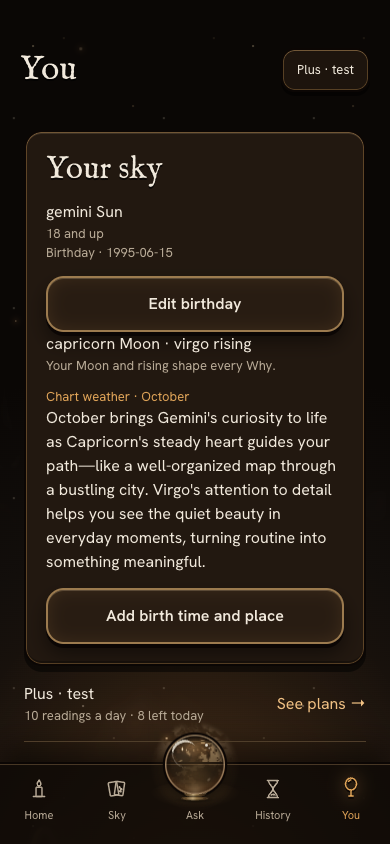
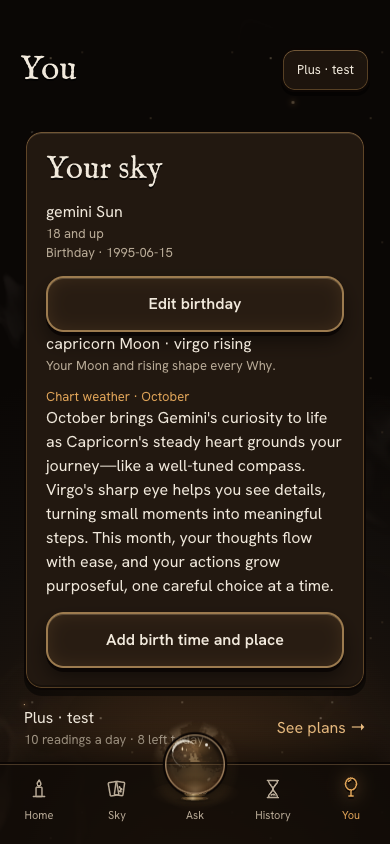
fix: keep forgotten birth signs and other accounts' chart weather off this device
Forgetting a birthday or birth time and place now drops the sign line from
saved readings, and a backup restore drops the chart weather cache. Chart
weather must name every supplied sign, a failed save releases the month,
narration pauses behind Share and Plans, and the cache uses the requested
month.

Changed region(s): [[0.0615, 0.4929, 0.9231, 0.9242]]

diff --git a/tests/plus-chart-voice.test.ts b/tests/plus-chart-voice.test.ts
@@ -1,7 +1,7 @@
 import test from 'node:test';
 import assert from 'node:assert/strict';
 import {handler} from '../server/handler.ts';
-import {astrologyLine,restoreProfile,updateBirthday} from '../src/profile.ts';
+import {astrologyLine,forgetBirthChart,restoreProfile,updateBirthday} from '../src/profile.ts';
 import {narration} from '../src/delight.ts';
 import type {AccountState} from '../src/types.ts';
 
@@ -10,7 +10,7 @@ const balance=(plus:boolean)=>({owner:viewer,asOf:'2026-10-04T00:00:00.000001Z',
 const billed=(key:string)=>({SUPABASE_URL:'http://127.0.0.1:55321',SUPABASE_SERVICE_ROLE_KEY:'test-only'} as Record<string,string>)[key];
 
 // Fake Ollama and Supabase boundaries; the weather text is what the model "writes".
-function boundary(t:any,{plus=false,weather=['Gemini Sun, Pisces Moon and Virgo rising invite a slower, kinder pace this month. Let small rituals steady you.']}={}){
+function boundary(t:any,{plus=false,failSave=false,weather=['Gemini Sun, Pisces Moon and Virgo rising invite a slower, kinder pace this month. Let small rituals steady you.']}={}){
  const prompts:any[]=[],stored=new Map<string,string|null>(),rpcs:string[]=[];let weatherCalls=0;
  t.mock.method(globalThis,'fetch',async(input:unknown,init?:RequestInit)=>{
   const url=new URL(String(input)),body=init?.body?JSON.parse(String(init.body)):null;
@@ -33,7 +33,7 @@ function boundary(t:any,{plus=false,weather=['Gemini Sun, Pisces Moon and Virgo 
     if(!stored.has(key)){stored.set(key,null);return Response.json({claimed:true})}
     const text=stored.get(key);return Response.json(text?JSON.parse(text):{claimed:false});
    }
-   if(name==='save_chart_weather'){const saved=stored.get(key)??JSON.stringify({text:body.weather,chart:body.weather_chart});stored.set(key,saved);return Response.json(JSON.parse(saved).text)}
+   if(name==='save_chart_weather'){if(failSave)return Response.json({message:'unavailable'},{status:500});const saved=stored.get(key)??JSON.stringify({text:body.weather,chart:body.weather_chart});stored.set(key,saved);return Response.json(JSON.parse(saved).text)}
    if(name==='release_chart_weather'){if(stored.get(key)===null)stored.delete(key);return new Response(null,{status:204})}
   }
   throw new Error(`Unexpected URL: ${url}`);
@@ -146,12 +146,27 @@ test('chart weather is a Plus extra read once per month on the server',async t=>
 
 test('chart weather fails closed on stray or generic text and gives the month back',async t=>{
  const today=new Date().toISOString().slice(0,10);
- for(const text of ['Leo energy and your Pisces Moon invite a bright and steady month ahead, full of small brave choices and kind moments.','This month invites a slower and kinder pace. Let small rituals steady you as the days grow shorter and calmer.']){
+ for(const text of ['Leo energy and your Pisces Moon invite a bright and steady month ahead, full of small brave choices and kind moments.','This month invites a slower and kinder pace. Let small rituals steady you as the days grow shorter and calmer.','Your Gemini Sun invites a slower and kinder pace this month. Let small rituals steady you as the days grow shorter.']){
   t.mock.restoreAll();const fake=boundary(t,{plus:true,weather:[text]});
   const response=await ask(handler(billed),{action:'chart',viewerChart:chart,localDate:today});
   assert.equal(response.status,400);assert.equal(fake.weatherCalls(),2,'one repair, then fail closed');
   assert.deepEqual(fake.rpcs,['claim_chart_weather','release_chart_weather']);assert.equal(fake.stored.size,0);
  }
+});
+
+test('a failed save gives the month back for an immediate retry',async t=>{
+ const today=new Date().toISOString().slice(0,10);
+ let fake=boundary(t,{plus:true,failSave:true});
+ assert.equal((await ask(handler(billed),{action:'chart',viewerChart:chart,localDate:today})).status,400);
+ assert.deepEqual(fake.rpcs,['claim_chart_weather','save_chart_weather','release_chart_weather']);assert.equal(fake.stored.size,0);
+});
+
+test('forgetting birth details drops the birth-derived line from saved readings',()=>{
+ const reading={id:'r1',question:'Will I learn?',headline:'You will learn.',createdAt:'2026-10-06T00:00:00Z',label:'Speculative',why:'Practice',facts:{birthday},sources:[],assumptions:[],friend:false,astrology:astrologyLine(birthday,chart)};
+ const state={sunSign:'gemini',ageBand:'adult',birthday,ageConfirmed:true,onboardingDone:true,...chart,birthTime:'14:30',birthPlace:'Oslo',facts:{},history:[reading],credits:0,plus:true,usage:{day:'2026-10-06',count:0},reduceMotion:false,largeText:false} as AccountState;
+ assert.equal(updateBirthday(state).history[0].astrology,undefined);
+ const forgotten=forgetBirthChart(state);
+ assert.equal(forgotten.history[0].astrology,undefined);assert.equal(forgotten.moonSign,undefined);assert.equal(forgotten.birthPlace,undefined);assert.equal(forgotten.birthday,birthday);
 });
 
 test('chart weather follows the birth chart it came from',()=>{

diff --git a/src/BirthProfile.tsx b/src/BirthProfile.tsx
@@ -2,7 +2,7 @@ import {useEffect,useRef,useState} from 'react';
 import {TextInput,View} from 'react-native';
 import {Action,Txt,styles,colors} from './ui';
 import {useStore} from './store';
-import {ageGroup,updateBirthday} from './profile';
+import {ageGroup,forgetBirthChart,updateBirthday} from './profile';
 import {birthChart,findBirthPlaces,type BirthPlace} from './birth-chart';
 import {requestChartWeather} from './api';
 import {localDay} from './retention';
@@ -20,7 +20,7 @@ export function BirthProfile({aiConsent,onUpgrade}:{aiConsent:string|null;onUpgr
  // The server keeps one chart weather per account and month; this copy only avoids asking again.
  async function readWeather(){
   if(aiConsent===null||weatherBusy)return;setWeatherBusy(true);setNotice('');
-  try{const text=await requestChartWeather(state,aiConsent);update(s=>s.moonSign&&s.birthday===state.birthday&&s.moonSign===state.moonSign&&s.risingSign===state.risingSign?{...s,chartWeather:{month,text}}:s);}catch(e){setNotice(e instanceof Error?e.message:'Chart weather is unavailable. Please try again later.');}finally{setWeatherBusy(false);}
+  try{const today=localDay(),text=await requestChartWeather(state,aiConsent,today);update(s=>s.moonSign&&s.birthday===state.birthday&&s.moonSign===state.moonSign&&s.risingSign===state.risingSign?{...s,chartWeather:{month:today.slice(0,7),text}}:s);}catch(e){setNotice(e instanceof Error?e.message:'Chart weather is unavailable. Please try again later.');}finally{setWeatherBusy(false);}
  }
  function saveBirthday(){
   if(ageGroup(birthday)==='under13'){update(s=>({...s,onboardingBlocked:true,onboardingDone:false}));return;}
@@ -48,7 +48,7 @@ export function BirthProfile({aiConsent,onUpgrade}:{aiConsent:string|null;onUpgr
    <Action label={busy?'Finding your city…':'Find birth city'} quiet disabled={busy||place.trim().length<2} onPress={search}/>
    {places.map(p=><Action key={`${p.latitude},${p.longitude}`} label={p.name} quiet={selected!==p} onPress={()=>setSelected(p)}/>)}
    <Action label="Reveal Moon and rising" disabled={!selected||!time} onPress={()=>{try{if(!selected||!state.birthday)return;const chart=birthChart(state.birthday,time,selected.latitude,selected.longitude);update(s=>({...s,...chart,birthTime:time,birthPlace:selected.name,chartWeather:undefined}));setNotice('Calculated on this device.');}catch{setNotice('Check your time and place, then try again.');}}}/>
-   {state.birthPlace?<Action label="Forget birth time and place" quiet onPress={()=>{update(s=>({...s,birthTime:undefined,birthPlace:undefined,moonSign:undefined,risingSign:undefined,chartWeather:undefined}));setTime('');setPlace('');setSelected(undefined);setPlaces([])}}/>:null}
+   {state.birthPlace?<Action label="Forget birth time and place" quiet onPress={()=>{update(forgetBirthChart);setTime('');setPlace('');setSelected(undefined);setPlaces([])}}/>:null}
    <Txt style={styles.caption}>City search: Open-Meteo / GeoNames. Only the city name is sent.</Txt>
   </>:null}
   {notice?<Txt accessibilityRole="alert">{notice}</Txt>:null}

diff --git a/src/api.ts b/src/api.ts
@@ -22,8 +22,8 @@ export async function requestOmen(facts:Facts,{sunSign,birthday,ageConfirmed}:Pi
  return result.value.text;
 }
 
-export async function requestChartWeather({birthday,ageConfirmed,moonSign,risingSign}:Pick<AccountState,'birthday'|'ageConfirmed'|'moonSign'|'risingSign'>,aiConsent=''):Promise<string>{
- const response=await fetch(engineUrl,{method:'POST',headers:{'Content-Type':'application/json',...previewHeaders,...await sessionHeader()},body:JSON.stringify({action:'chart',question:'This month’s chart weather',facts:{},viewerBirthday:birthday,ageConfirmed,viewerChart:{moonSign,risingSign},localDate:localDay(),aiConsent}),signal:AbortSignal.timeout(60000)});
+export async function requestChartWeather({birthday,ageConfirmed,moonSign,risingSign}:Pick<AccountState,'birthday'|'ageConfirmed'|'moonSign'|'risingSign'>,aiConsent='',localDate=localDay()):Promise<string>{
+ const response=await fetch(engineUrl,{method:'POST',headers:{'Content-Type':'application/json',...previewHeaders,...await sessionHeader()},body:JSON.stringify({action:'chart',question:'This month’s chart weather',facts:{},viewerBirthday:birthday,ageConfirmed,viewerChart:{moonSign,risingSign},localDate,aiConsent}),signal:AbortSignal.timeout(60000)});
  const result=await response.json().catch(()=>null);
  if(!response.ok||result?.kind!=='ok'||typeof result.value?.text!=='string')throw new Error(result?.message||'Chart weather is unavailable. Please try again later.');
  return result.value.text;

diff --git a/src/profile.ts b/src/profile.ts
@@ -27,11 +27,17 @@ export function birthdayProfile(birthday?:string,ageConfirmed=false){
  return {birthday,ageConfirmed:group==='unknown'?ageConfirmed:true,sunSign:sunSign(birthday)||null,ageBand:group==='unknown'?(ageConfirmed?'teen' as const:null):group,birthTime:undefined,birthPlace:undefined,moonSign:undefined,risingSign:undefined,chartWeather:undefined};
 }
 
+// The Why's astrology line names birth signs, so it leaves saved readings with the birth details it came from.
+const withoutAstrology=(history:AccountState['history'])=>history.map(({astrology:_,...reading})=>reading);
+export function forgetBirthChart(state:AccountState):AccountState {
+ return {...state,birthTime:undefined,birthPlace:undefined,moonSign:undefined,risingSign:undefined,chartWeather:undefined,history:withoutAstrology(state.history)};
+}
+
 export function updateBirthday(state:AccountState,birthday?:string):AccountState {
  if(birthday&&birthday===state.birthday)return state;
  const confirmed=canRead(state),profile=birthdayProfile(birthday,confirmed);
  const facts={...state.facts};delete facts.birthday;delete facts.sun_sign;
- const history=state.history.map(reading=>{const facts={...reading.facts};delete facts.birthday;return {...reading,facts};});
+ const history=withoutAstrology(state.history).map(reading=>{const facts={...reading.facts};delete facts.birthday;return {...reading,facts};});
  return {...state,...profile,...(!birthday&&confirmed?{ageBand:state.ageBand}:{}),facts,history};
 }
 

diff --git a/server/billing.ts b/server/billing.ts
@@ -98,10 +98,10 @@ export function billing(env:Env){
   const claim=await call('claim_chart_weather',{});
   if(typeof claim?.text==='string'){if(claim.chart===chart)return claim.text;throw new BillingError('You’ve read this month’s chart weather. A new one arrives next month.',409)}
   if(claim?.claimed!==true)throw new BillingError('Your chart weather is still arriving. Try again in a moment.',409);
-  let text:string;
-  try{text=await generate()}catch(error){await call('release_chart_weather',{}).catch(()=>{});throw error}
-  const saved=await call('save_chart_weather',{weather:text,weather_chart:chart});
-  return typeof saved==='string'?saved:text;
+  try{
+   const text=await generate(),saved=await call('save_chart_weather',{weather:text,weather_chart:chart});
+   return typeof saved==='string'?saved:text;
+  }catch(error){await call('release_chart_weather',{}).catch(()=>{});throw error}
  }
  return {user,reconcile,simulate,styles,authorizeCharge,edition,chartWeather,balance:(viewer:string)=>rpc('reading_balance',{viewer}),charge:(viewer:string,reading:string)=>rpc('charge_reading',{viewer,reading})};
 }

diff --git a/app/index.tsx b/app/index.tsx
@@ -52,7 +52,7 @@ export default function App(){
  },[paywall,buying,backupBusy,state.balanceSnapshot?.owner,state.backupOwner]);
  useEffect(()=>{if(flow.stage!=='approach')return;const timer=setTimeout(()=>setFlow({stage:'listening'}),state.reduceMotion||systemReduce?0:1100);return()=>clearTimeout(timer)},[flow.stage,state.reduceMotion,systemReduce]);
  useDelight({enabled:!!state.ambientSound,listening:flow.stage==='approach'||flow.stage==='listening',thinking:flow.stage==='planning'||flow.stage==='research',revealId:flow.stage==='reveal'&&!reviewing?flow.prediction.id:undefined});
- const spoken=flow.stage==='reveal'&&!reviewing&&!capture?narration(state,flow.prediction):null;
+ const spoken=flow.stage==='reveal'&&!reviewing&&!capture&&!share&&!paywall?narration(state,flow.prediction):null;
  useEffect(()=>{if(!spoken)return;speak(spoken);return stopSpeaking},[spoken,flow.stage==='reveal'?flow.prediction.id:null]);
  const [{friend,friendTarget},setReadingIdentity]=useState(()=>readingIdentity({friend:false}));
  const socialProfile=accountSocialProfile(state),socialReady=ready&&canRead(state);

diff --git a/server/omen.ts b/server/omen.ts
@@ -34,7 +34,7 @@ export async function chartWeather(chart:{sunSign:string;moonSign:string;risingS
    // Word range is looser than the prompt's 20-45 so a slightly long reflection does not fail closed.
    if(text.length<40||text.length>320||words.length<15||words.length>60||/[\r\n]/.test(text)||!/[.!?]$/.test(text))return {valid:false,feedback:'Write two complete sentences, 20 to 45 words in total, ending with punctuation.'};
    if(signs.some(sign=>words.includes(sign)&&!supplied.includes(sign)))return {valid:false,feedback:`Name only these signs: ${supplied.join(', ')}.`};
-   if(!supplied.some(sign=>words.includes(sign)))return {valid:false,feedback:`Name the supplied signs: ${supplied.join(', ')}.`};
+   if(!supplied.every(sign=>words.includes(sign)))return {valid:false,feedback:`Name the supplied signs: ${supplied.join(', ')}.`};
    if(voiceFlags(text).length)return {valid:false,feedback:'Keep it gentle and uncertain: no doom, certainty or claims about anyone’s secret feelings.'};
    return true;
   }

diff --git a/src/cloud.ts b/src/cloud.ts
@@ -47,7 +47,8 @@ export async function restoreBackup(state:AccountState,client:SupabaseClient|nul
  const remembered=facts.data?.facts??{};
  if(!validFacts(remembered))throw new Error('Backup contains unreadable facts.');
  history.sort((a,b)=>Date.parse(b.createdAt)-Date.parse(a.createdAt));
- return {...state,facts:remembered,history,backupOwner:user_id};
+ // The chart weather cache may be another account's; the server returns this account's month on request.
+ return {...state,facts:remembered,history,backupOwner:user_id,chartWeather:undefined};
 }
 export async function mirror(state:AccountState,client:SupabaseClient|null=supabase){
  if(!client||!canRead(state))return;

diff --git a/tests/cloud.test.ts b/tests/cloud.test.ts
@@ -37,6 +37,10 @@ test('fresh-phone and explicit restore replace facts/history without writing or 
  }
  remote.failRead=true;await assert.rejects(restoreBackup(empty,client));assert.equal(remote.writes,0);
 });
+test('restore drops the device chart weather cache, which may belong to another account',async()=>{
+ const {client}=archive();
+ assert.equal((await restoreBackup({...empty,chartWeather:{month:'2026-10',text:'Steady.'}},client)).chartWeather,undefined);
+});
 test('uploads replace the one-device archive, including forgotten facts and empty history',async()=>{
  const {remote,client}=archive();
  const restored=await restoreBackup(empty,client);
